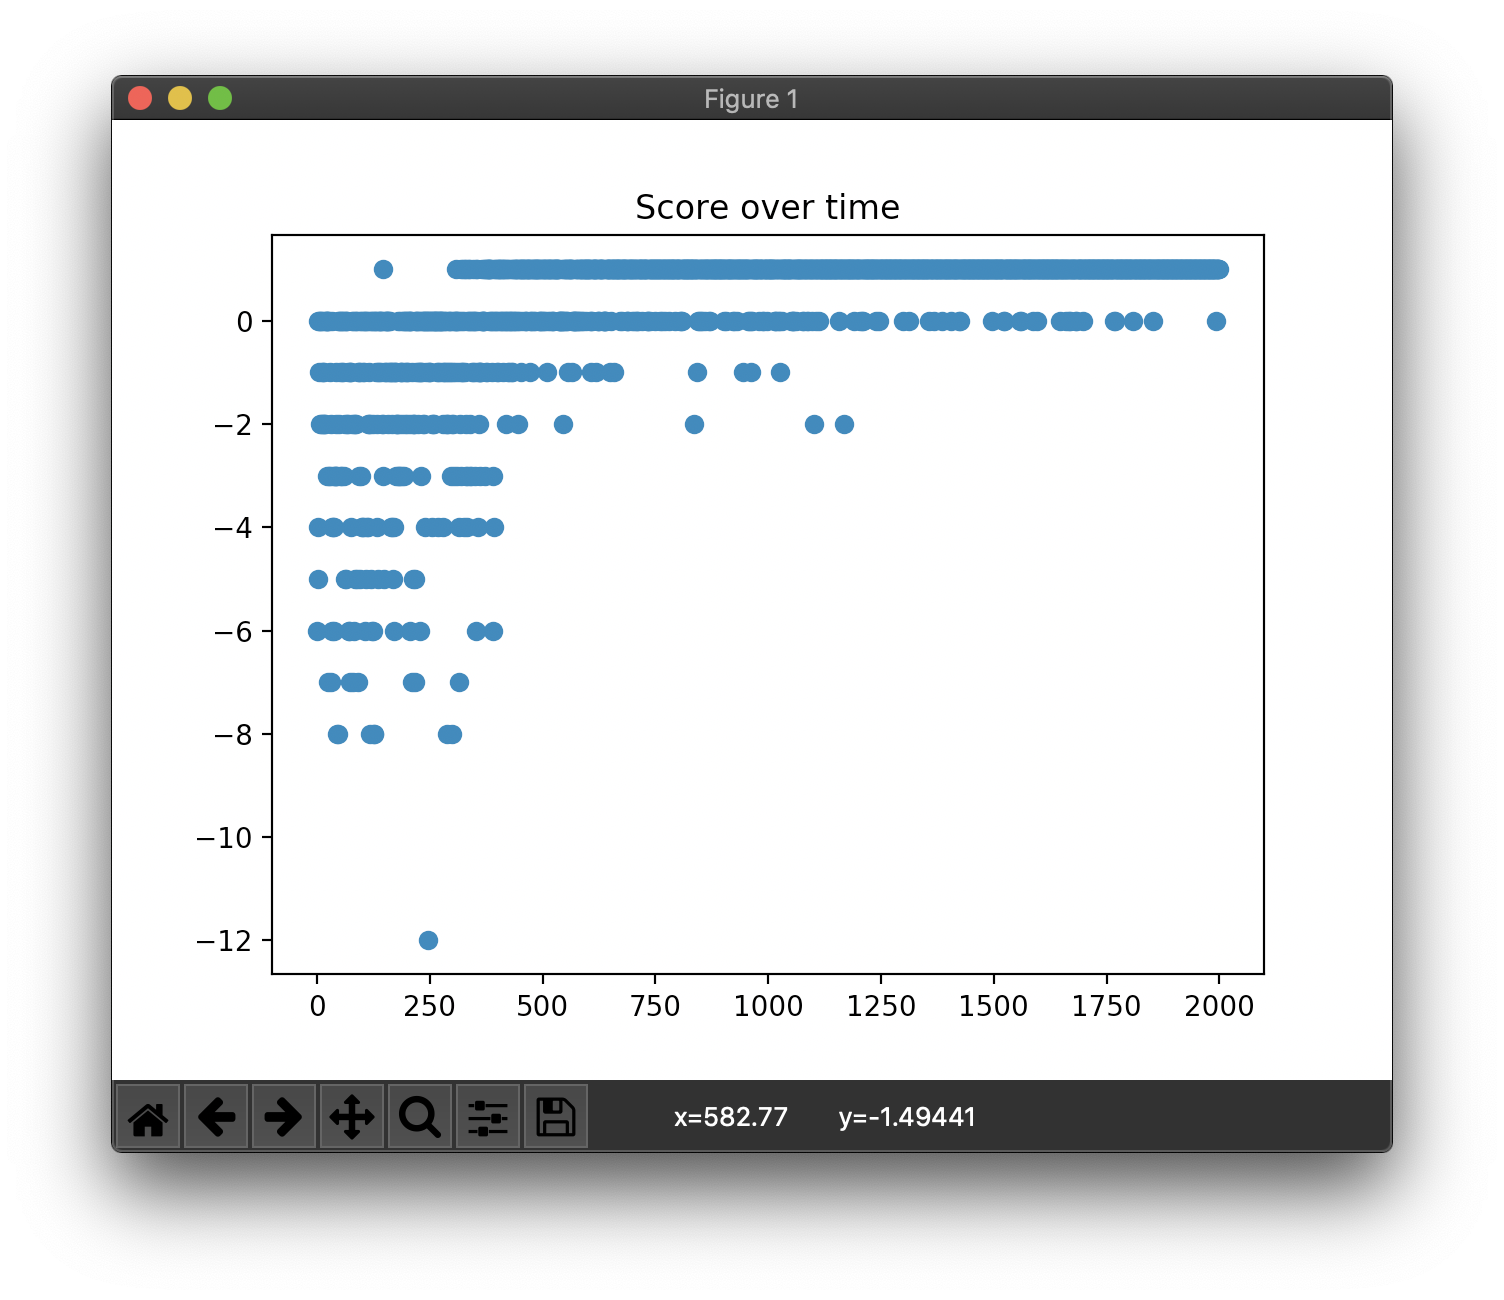
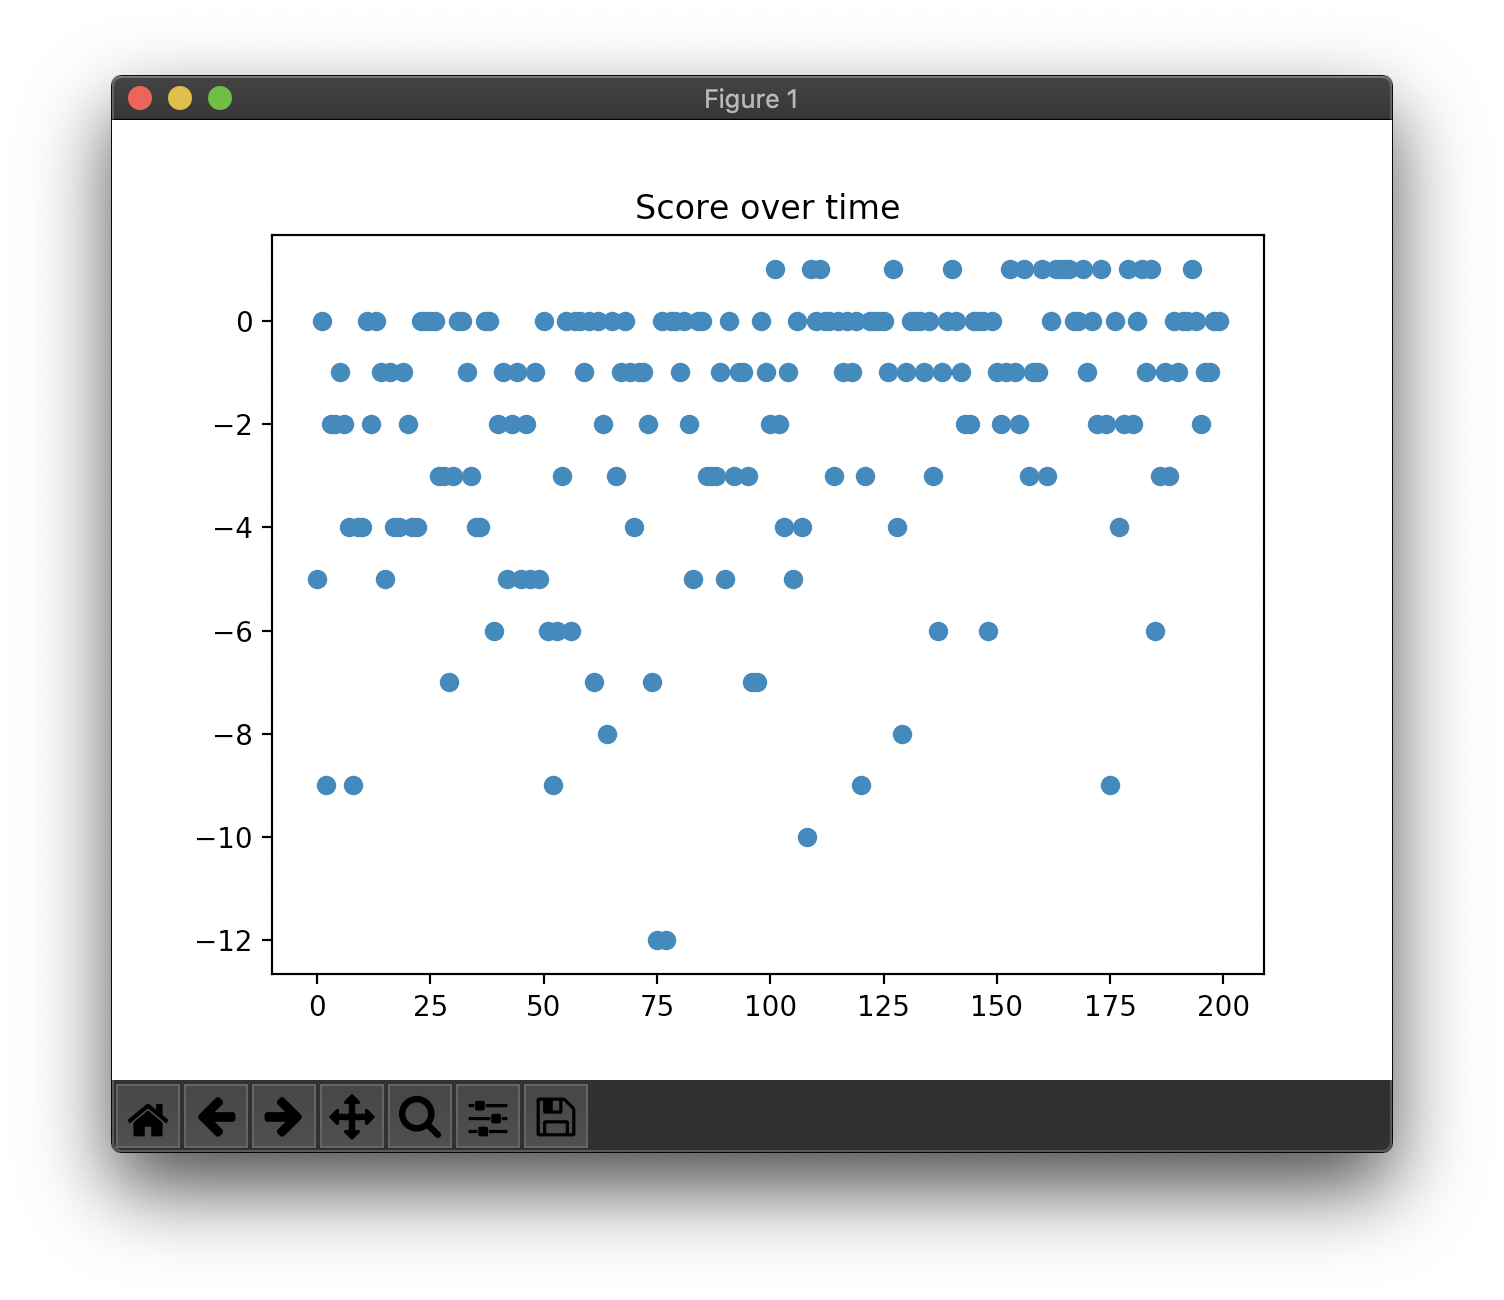
Update README.md

diff --git a/2-DQN/README.md b/2-DQN/README.md
@@ -22,51 +22,51 @@ Map:
 ## Result
 
 ```
-> Setting: Namespace(e=0.998, lr=0.001, r=2000, s=100, y=0.95)
-(Episode:  1999, Agent:     0, Steps:     9)
-Score over time: 0.373
+> Setting: Namespace(e=0.998, lr=0.001, r=200, s=100, y=0.95)
+(Episode:   199, Steps:    12)
+Score over time: -1.95
 ```
 
 ![Gs](./images/Gs.png)
 
 ```
-Final Q-Table driven by NN:
-array([[1.565, 1.999, 1.8  , 1.863],
-       [1.712, 2.145, 1.865, 1.694],
-       [1.648, 1.911, 1.832, 1.733],
-       [1.603, 1.94 , 1.855, 1.745],
-       [1.607, 1.934, 1.892, 1.662],
-       [1.704, 1.887, 1.965, 1.834],
-       [1.696, 2.095, 1.91 , 1.916],
-       [1.831, 2.272, 1.987, 1.713],
-       [1.73 , 1.844, 1.986, 1.657],
-       [1.526, 1.997, 1.899, 1.679],
-       [1.469, 1.967, 1.815, 1.796],
-       [1.38 , 1.748, 1.74 , 1.399],
-       [1.695, 2.112, 1.976, 2.207],
-       [1.946, 2.276, 2.053, 1.844],
-       [1.63 , 1.936, 1.974, 1.777],
-       [1.549, 1.714, 1.822, 1.538],
-       [1.554, 1.732, 1.833, 1.518],
-       [1.562, 1.96 , 1.913, 1.745],
-       [1.728, 2.092, 2.029, 2.291],
-       [2.037, 2.401, 2.14 , 1.939],
-       [1.79 , 1.862, 2.096, 1.748],
-       [1.518, 1.849, 1.913, 1.533],
-       [1.746, 2.67 , 2.477, 2.539],
-       [1.375, 1.927, 1.651, 1.729],
-       [1.728, 2.051, 1.99 , 2.282],
-       [2.186, 2.545, 2.204, 1.553],
-       [2.124, 2.569, 2.227, 1.664],
-       [1.819, 2.88 , 2.667, 3.368],
-       [1.665, 2.263, 1.992, 2.054],
-       [2.012, 2.009, 2.437, 1.261],
-       [1.553, 1.944, 1.876, 2.241],
-       [1.726, 2.326, 2.327, 2.697],
-       [1.396, 2.495, 2.451, 2.859],
-       [1.545, 2.585, 2.558, 3.023],
-       [3.116, 2.645, 2.679, 2.312],
-       [1.54 , 2.065, 2.474, 2.16 ]])
+Final Q-Table:
+array([[1.051, 1.103, 1.049, 1.1  ],
+       [1.101, 1.256, 1.051, 1.049],
+       [1.049, 1.101, 1.104, 0.949],
+       [0.956, 1.048, 1.049, 0.974],
+       [0.954, 1.087, 0.957, 0.911],
+       [0.873, 1.027, 0.98 , 0.909],
+       [1.05 , 1.257, 1.103, 1.256],
+       [1.101, 1.408, 1.102, 1.104],
+       [1.05 , 1.256, 1.256, 1.048],
+       [0.954, 1.101, 1.099, 1.09 ],
+       [0.976, 1.173, 1.044, 1.007],
+       [0.952, 1.181, 1.133, 1.053],
+       [1.105, 1.407, 1.259, 1.408],
+       [1.253, 1.545, 1.257, 1.257],
+       [1.101, 1.408, 1.409, 1.1  ],
+       [1.048, 1.254, 1.257, 1.172],
+       [1.086, 1.295, 1.1  , 1.146],
+       [1.009, 1.251, 1.157, 1.137],
+       [1.258, 1.546, 1.411, 1.545],
+       [1.409, 1.665, 1.41 , 1.408],
+       [1.257, 0.833, 1.545, 1.255],
+       [1.1  , 1.285, 1.409, 1.289],
+       [1.183, 2.486, 1.252, 1.256],
+       [1.189, 1.425, 1.291, 1.182],
+       [1.41 , 1.667, 1.547, 1.665],
+       [1.545, 1.834, 1.547, 0.833],
+       [1.409, 1.991, 1.666, 1.285],
+       [1.256, 2.123, 0.833, 2.486],
+       [1.137, 1.627, 1.41 , 1.175],
+       [1.263, 1.96 , 2.484, 1.379],
+       [1.547, 1.666, 1.666, 1.833],
+       [1.665, 1.833, 1.665, 1.991],
+       [0.833, 1.991, 1.835, 2.124],
+       [1.286, 2.123, 1.992, 2.287],
+       [2.486, 2.287, 2.124, 2.123],
+       [1.287, 2.124, 2.286, 2.118]])
 Map:
 [['Start    ', 'Normal   ', 'Normal   ', 'Normal   ', 'Normal   ', 'Normal   '],
  ['Normal   ', 'Normal   ', 'Normal   ', 'Normal   ', 'Normal   ', 'Normal   '],
@@ -75,10 +75,10 @@ Map:
  ['Normal   ', 'Normal   ', 'Obstacle ', 'Obstacle ', 'Goal     ', 'Obstacle '],
  ['Normal   ', 'Normal   ', 'Normal   ', 'Normal   ', 'Normal   ', 'Normal   ']]
 Q-map:
-[['Down     ', 'Down     ', 'Down     ', 'Down     ', 'Down     ', 'Left     '],
- ['Down     ', 'Down     ', 'Left     ', 'Down     ', 'Down     ', 'Down     '],
- ['Right    ', 'Down     ', 'Left     ', 'Left     ', 'Left     ', 'Down     '],
+[['Down     ', 'Down     ', 'Left     ', 'Left     ', 'Down     ', 'Down     '],
+ ['Down     ', 'Down     ', 'Down     ', 'Down     ', 'Down     ', 'Down     '],
  ['Right    ', 'Down     ', 'Left     ', 'Left     ', 'Down     ', 'Down     '],
- ['Right    ', 'Down     ', 'Down     ', 'Right    ', 'Down     ', 'Left     '],
+ ['Down     ', 'Down     ', 'Left     ', 'Left     ', 'Down     ', 'Down     '],
+ ['Down     ', 'Down     ', 'Down     ', 'Right    ', 'Down     ', 'Left     '],
  ['Right    ', 'Right    ', 'Right    ', 'Right    ', 'Up       ', 'Left     ']]
 ```
